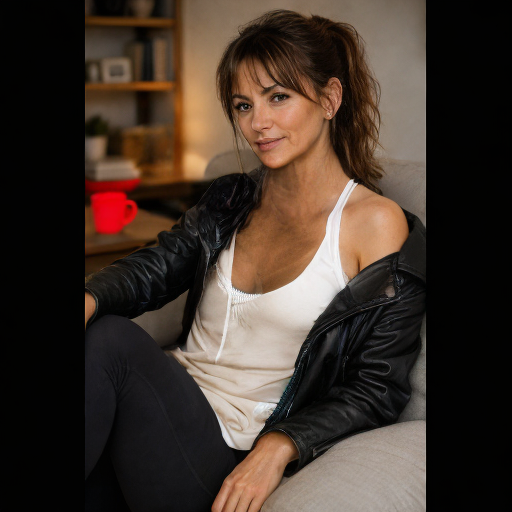
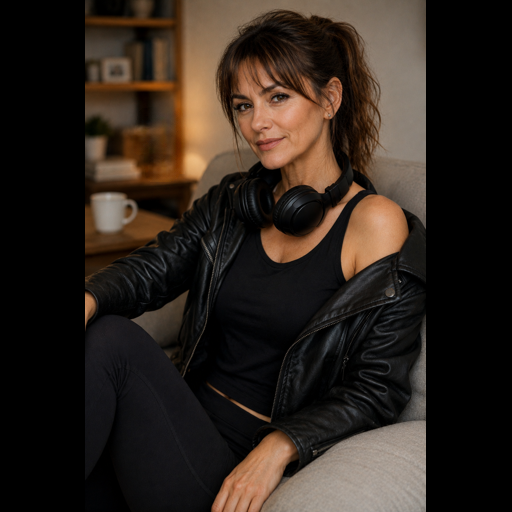
Docker containers were optimized for loading

diff --git a/ai_service/models.py b/ai_service/models.py
@@ -124,17 +124,15 @@ print("✓ SD Turbo")
 # Mask2Former
 # -------------------------
 
-processor = AutoImageProcessor.from_pretrained(
+mask_2_former_processor = AutoImageProcessor.from_pretrained(
     "facebook/mask2former-swin-large-coco-instance",
     cache_dir=CACHE_DIR
 )
 
-model = Mask2FormerForUniversalSegmentation.from_pretrained(
+mask_2_former_model = Mask2FormerForUniversalSegmentation.from_pretrained(
     "facebook/mask2former-swin-large-coco-instance",
     cache_dir=CACHE_DIR
 )
-del model
-del processor
 
 print("✓ Mask2Former")
 

diff --git a/ai_service/utils.py b/ai_service/utils.py
@@ -9,11 +9,13 @@ import matplotlib.patches as patches
 import numpy as np
 from tqdm.auto import tqdm
 
-from models import lama, processor, model, sam_processor, sam_model, pipe, sdxl_inpainting_pipeline
+from models import *
 
 device = torch.device("cuda" if torch.cuda.is_available() else "cpu")
 
 TARGET_SIZE = 512
+DETECTION_SIZE = 384
+SAM_SIZE = 384
 DEBUG_VIS = False # Global debug visualization flag
 
 import time